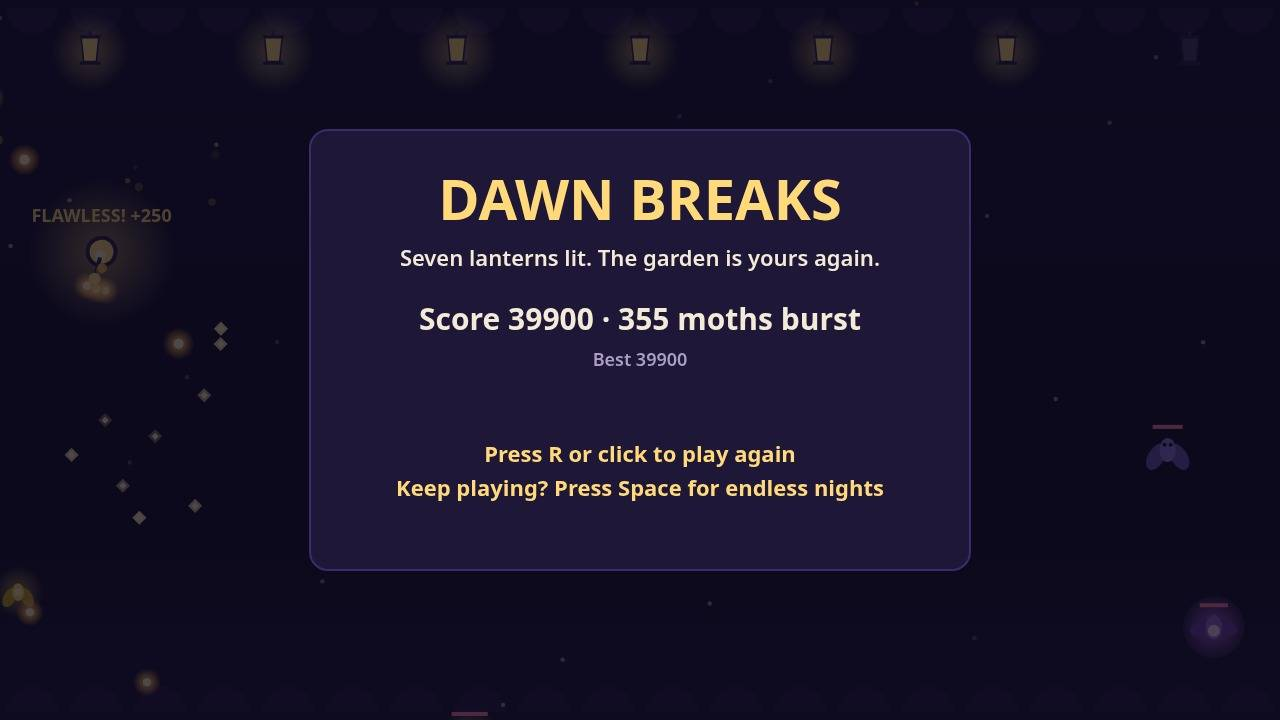
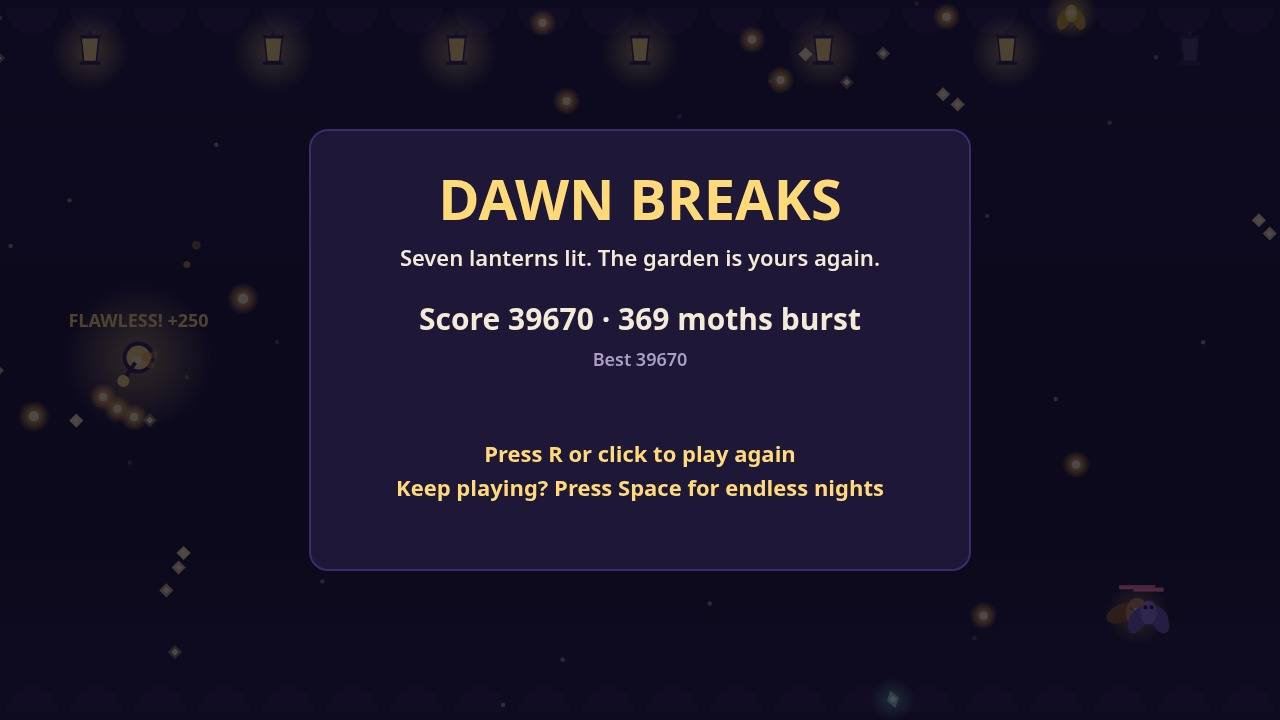
Quality round 3c: Matriarch's Fury — boss desperation ring
- Below 25% HP the Matriarch fires one ring of 8 gloom orbs (EVENT_DESPERATE,
  FURY! text, own SFX + announce). Orbs are slow, dodgeable and shootable.
- Orb-spawn clamp: ring orbs born outside the field (boss spawns at the edge)
  were deleted the same step by the bounds check (unit caught 5, not 8);
  fireOrb + fury ring now clamp spawn positions inside the field.
- Autopilot 15 seeds x 4 modes: 60/60 wins; unit checks r4 9/9 + r5 7/7.
  Fury costs a little DPS (embers shoot the ring down): mean score -2 to -8%
  vs round 3b, wins unchanged.

diff --git a/game/src/world.js b/game/src/world.js
@@ -43,6 +43,7 @@ export const EVENT_ENRAGE = 256;
 export const EVENT_WARD = 512;
 export const EVENT_SPIT = 1024;
 export const EVENT_FLARE = 2048;
+export const EVENT_DESPERATE = 4096;
 
 export const KIND_MOTH = 'moth';
 export const KIND_DARTER = 'darter';
@@ -233,6 +234,7 @@ export function createWorld(random) {
       spawnTimer: 1.2,
       spawnInterval: BOSS.spawnInterval,
       enraged: false,
+      desperate: false,
     };
     return EVENT_BOSS;
   }
@@ -336,8 +338,8 @@ export function createWorld(random) {
   /** A spitter looses one gloom orb at the keeper — slow, glowing, shootable. */
   function fireOrb(m, events) {
     state.orbs.push({
-      x: m.x + m.lx * (m.radius + 10),
-      y: m.y + m.ly * (m.radius + 10),
+      x: Math.min(FIELD.width, Math.max(0, m.x + m.lx * (m.radius + 10))),
+      y: Math.min(FIELD.height, Math.max(0, m.y + m.ly * (m.radius + 10))),
       vx: m.lx * GloomOrb.speed,
       vy: m.ly * GloomOrb.speed,
       life: GloomOrb.life,
@@ -690,6 +692,25 @@ export function createWorld(random) {
       b.speed *= 1.25;
       b.spawnInterval = 2.0;
       events |= EVENT_ENRAGE;
+    }
+    // Below a quarter she bursts in fury — one ring of gloom orbs, once.
+    // The ring is slow and shootable, but standing still inside it hurts.
+    if (!b.desperate && b.hp <= b.maxHp * BOSS.desperateAt) {
+      b.desperate = true;
+      for (let i = 0; i < BOSS.desperateOrbs; i += 1) {
+        const a = (i / BOSS.desperateOrbs) * TAU;
+        state.orbs.push({
+          x: Math.min(FIELD.width, Math.max(0, b.x + Math.cos(a) * (b.radius + 10))),
+          y: Math.min(FIELD.height, Math.max(0, b.y + Math.sin(a) * (b.radius + 10))),
+          vx: Math.cos(a) * GloomOrb.speed,
+          vy: Math.sin(a) * GloomOrb.speed,
+          life: GloomOrb.life,
+        });
+      }
+      state.spitterShots += BOSS.desperateOrbs;
+      burst(b.x, b.y, '#c77dff', 24, 260);
+      addText(b.x, b.y - 60, 'FURY!', '#c77dff');
+      events |= EVENT_DESPERATE;
     }
     const p = state.player;
     const dx = p.x - b.x;

diff --git a/game/src/main.js b/game/src/main.js
@@ -8,7 +8,7 @@
 import { BEST_KEY, FIELD, NIGHTS_TO_WIN, STEP, nightTheme } from './config.js';
 import { createRandom } from './random.js';
 import { createAudio } from './audio.js';
-import { createWorld, EVENT_BOSS, EVENT_BURST, EVENT_ENRAGE, EVENT_FLARE, EVENT_HIT, EVENT_NIGHT_CLEAR, EVENT_NOVA, EVENT_OVER, EVENT_PICKUP, EVENT_SPIT, EVENT_WARD, EVENT_WIN } from './world.js';
+import { createWorld, EVENT_BOSS, EVENT_BURST, EVENT_DESPERATE, EVENT_ENRAGE, EVENT_FLARE, EVENT_HIT, EVENT_NIGHT_CLEAR, EVENT_NOVA, EVENT_OVER, EVENT_PICKUP, EVENT_SPIT, EVENT_WARD, EVENT_WIN } from './world.js';
 import { ACTION_CONFIRM, ACTION_FLARE, ACTION_MUTE, ACTION_PAUSE, ACTION_PICK_1, ACTION_PICK_2, ACTION_PICK_3, ACTION_RESTART, createInput } from './input.js';
 import { CARD, createRenderer, SCREEN_OVER, SCREEN_PAUSED, SCREEN_PLAY, SCREEN_TITLE, SCREEN_UPGRADE, SCREEN_WIN } from './render.js';
 import { stageShot } from './shots.js';
@@ -208,6 +208,10 @@ function runGame() {
     if (events & EVENT_ENRAGE) {
       audio.boss();
       announce('The Matriarch is enraged — she moves faster now!');
+    }
+    if (events & EVENT_DESPERATE) {
+      audio.fury();
+      announce('The Matriarch bursts in fury — dodge the ring of orbs!');
     }
     if (events & EVENT_WIN) endGame(true);
     else if (events & EVENT_OVER) endGame(false);

diff --git a/game/src/audio.js b/game/src/audio.js
@@ -121,6 +121,12 @@ export function createAudio() {
       [523, 659, 784, 1047].forEach((f, i) => tone(f, 0.3, 'triangle', 0.13, null, i * 0.03));
       noise(0.25, 0.12, 3200);
     },
+    fury() {
+      if (!ensure()) return;
+      tone(90, 0.5, 'sawtooth', 0.18, 45);
+      tone(140, 0.4, 'sawtooth', 0.10, 70, 0.08);
+      noise(0.3, 0.10, 1600);
+    },
     ward() {
       if (!ensure()) return;
       [1047, 1319, 1568].forEach((f, i) => tone(f, 0.18, 'triangle', 0.12, null, i * 0.05));

diff --git a/game/src/config.js b/game/src/config.js
@@ -138,6 +138,9 @@ export const BOSS = {
   shards: 30,
   spawnInterval: 2.4,
   contactDamage: 1,
+  /** Below this fraction of health she bursts in fury: one ring of gloom orbs. */
+  desperateAt: 0.25,
+  desperateOrbs: 8,
 };
 
 export const SHARD = {

diff --git a/README.md b/README.md
@@ -33,8 +33,10 @@ deal with both — and dark-violet Gloom Spitters hold at range and spit slow
 gloom orbs at you, telegraphing each shot with a flare: step aside, or shoot
 the orb down; from night 5, slow old Elders drift in, tough at 3 hp but heavy
 with 4 shards. Every 3rd night a Gloom Matriarch boss guards the lantern — and
-below half health she enrages, moving faster and calling moths sooner. Three
-hearts; a touch costs one, unless a Lantern Ward eats the hit. Light all 7
+below half health she enrages, moving faster and calling moths sooner; below a
+quarter she bursts in fury, firing one ring of gloom orbs in every direction —
+dodge it or shoot the orbs down. Three hearts; a touch costs one, unless a
+Lantern Ward eats the hit. Light all 7
 lanterns and dawn breaks — you win. Lose all hearts and the light goes out.
 After a win, Space keeps playing endless nights.
 
@@ -49,13 +51,14 @@ moth cap rises, so hold the line until dawn.
 
 - A complete loop: title → 7 named nights with escalating moths, darters,
   wisps, splitters, motes, elders, spitters and fleeing lantern-moths →
-  an enraging boss who changes what she summons → 11 upgrade choices →
-  victory or game-over screen → restart / endless. Each night has its own
-  name and twist: First Dark, Wisp Tide, the Matriarch Wakes, Spitter's
-  Watch, Swarm Night, the Matriarch Returns, and the Dawn Rush finale.
+  an enraging boss who changes what she summons and bursts in fury at low
+  health → 11 upgrade choices → victory or game-over screen → restart /
+  endless. Each night has its own name and twist: First Dark, Wisp Tide, the
+  Matriarch Wakes, Spitter's Watch, Swarm Night, the Matriarch Returns, and
+  the Dawn Rush finale.
 - Original art drawn in code (no images) and original sound synthesised with
   WebAudio (no audio files): shoot, burst, pickup, hurt, lantern, upgrade,
-  boss, nova, ward, spit, flare, victory and defeat cues over a soft ambient pad.
+  boss, nova, ward, spit, flare, fury, victory and defeat cues over a soft ambient pad.
 - No libraries, no network, no build step: plain static files under `game/`,
   playable offline in a desktop browser from `game/index.html`.
 
